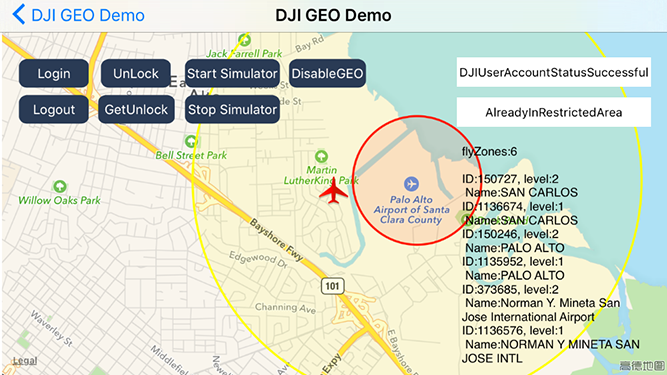
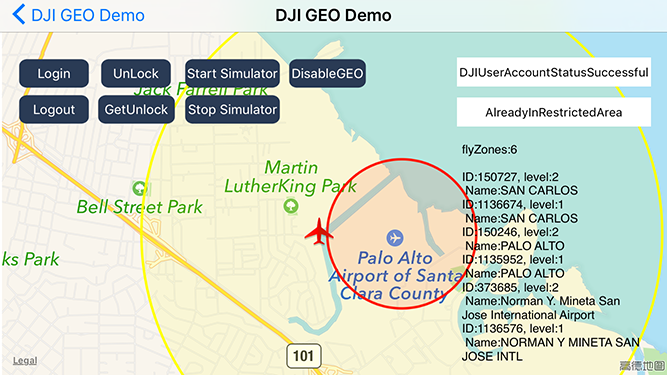
Update test coordinate data.

diff --git a/source/cn/ios-tutorials/GEODemo.md b/source/cn/ios-tutorials/GEODemo.md
@@ -1319,7 +1319,7 @@ Here is the screenshot of using **Start Simulator** feature in the sample:
 
 ![startSimulator](../../images/tutorials-and-samples/iOS/GEODemo/startSimulator.png)
 
-Once you locate the aircraft to the coordinate of (37.460484, -122.115312), you may see there are some color circles, which represent different types of fly zones. 
+Once you locate the aircraft to the coordinate of (37.4613697, -122.1237315), you may see there are some color circles, which represent different types of fly zones. 
 
 Also the textView on the right side will show the `DJIFlyZoneInformation` info, includes the fly zone number, fly zone id (required in the unlock process), fly zone category and name.
 
@@ -1345,7 +1345,7 @@ Press the **Stop Simulator** button to stop the simulator, and the aircraft imag
 
 #### 1. Unlock Fly Zone
 
-After you login with your DJI account and locate the aircraft to the coordinate of (37.460484, -122.115312), you can press the **Unlock** button and type in the fly zone ID to unlock it. 
+After you login with your DJI account and locate the aircraft to the coordinate of (37.4613697, -122.1237315), you can press the **Unlock** button and type in the fly zone ID to unlock it. 
 
 If you unlock the fly zone successfully, you may see the yellow circle disappear and the right fly zone info are updated as shown in the following gif animation:
 

diff --git a/source/ios-tutorials/GEODemo.md b/source/ios-tutorials/GEODemo.md
@@ -1319,7 +1319,7 @@ Here is the screenshot of using **Start Simulator** feature in the sample:
 
 ![startSimulator](../images/tutorials-and-samples/iOS/GEODemo/startSimulator.png)
 
-Once you locate the aircraft to the coordinate of (37.460484, -122.115312), you may see there are some color circles, which represent different types of fly zones. 
+Once you locate the aircraft to the coordinate of (37.4613697, -122.1237315), you may see there are some color circles, which represent different types of fly zones. 
 
 Also the textView on the right side will show the `DJIFlyZoneInformation` info, includes the fly zone number, fly zone id (required in the unlock process), fly zone category and name.
 
@@ -1345,7 +1345,7 @@ Press the **Stop Simulator** button to stop the simulator, and the aircraft imag
 
 #### 1. Unlock Fly Zone
 
-After you login with your DJI account and locate the aircraft to the coordinate of (37.460484, -122.115312), you can press the **Unlock** button and type in the fly zone ID to unlock it. 
+After you login with your DJI account and locate the aircraft to the coordinate of (37.4613697, -122.1237315), you can press the **Unlock** button and type in the fly zone ID to unlock it. 
 
 If you unlock the fly zone successfully, you may see the yellow circle disappear and the right fly zone info are updated as shown in the following gif animation:
 
